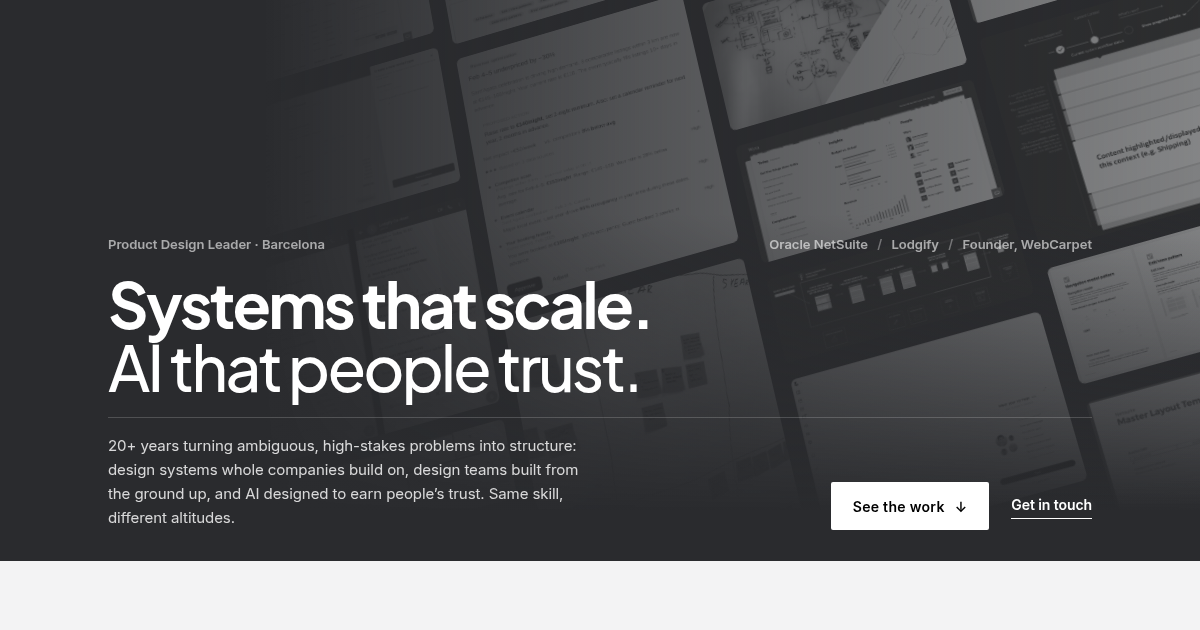
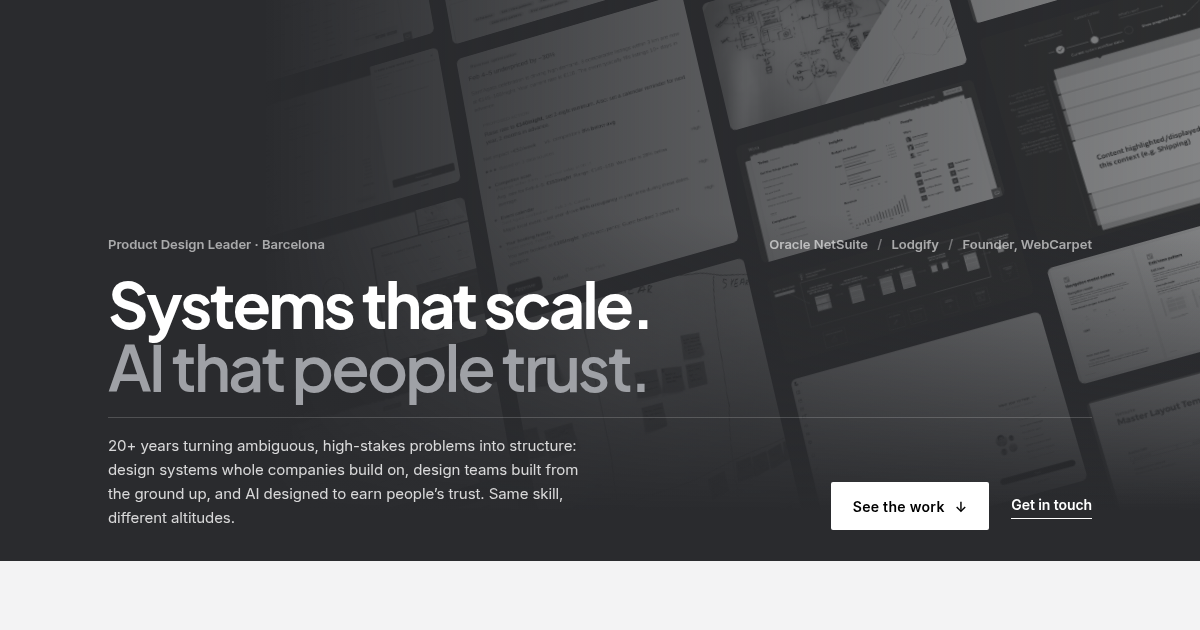
Hero: second headline line in soft grey
Claude-Session: https://claude.ai/code/session_01C6ee1zXA77t8X8bqW6Rm8z

Changed region(s): [[0.0925, 0.5429, 0.555, 0.6333]]

diff --git a/index.html b/index.html
@@ -557,7 +557,7 @@ blockquote{ font-size:24px; line-height:1.3; }
 @keyframes drift{ from{ transform:translateY(0) } to{ transform:translateY(-50%) } }
 @media (prefers-reduced-motion: reduce){ .wcol{ animation:none; } }
 .hero-x .hx-title{ font-weight:400; letter-spacing:-0.02em; font-size:clamp(52px, 9.4vw, 118px); line-height:.98; color:#fff; }
-.hero-x .hx-title em{ font-style:normal; color:#fff; }
+.hero-x .hx-title em{ font-style:normal; color:#9fa1a6; font-weight:600; }
 .hero-x .hx-sub{ color:rgba(255,255,255,.82); }
 .hero-x .eyebrow, .hero-x .hx-proof{ color:rgba(255,255,255,.6); }
 .hero-x .hx-proof span{ color:rgba(255,255,255,.35); }
